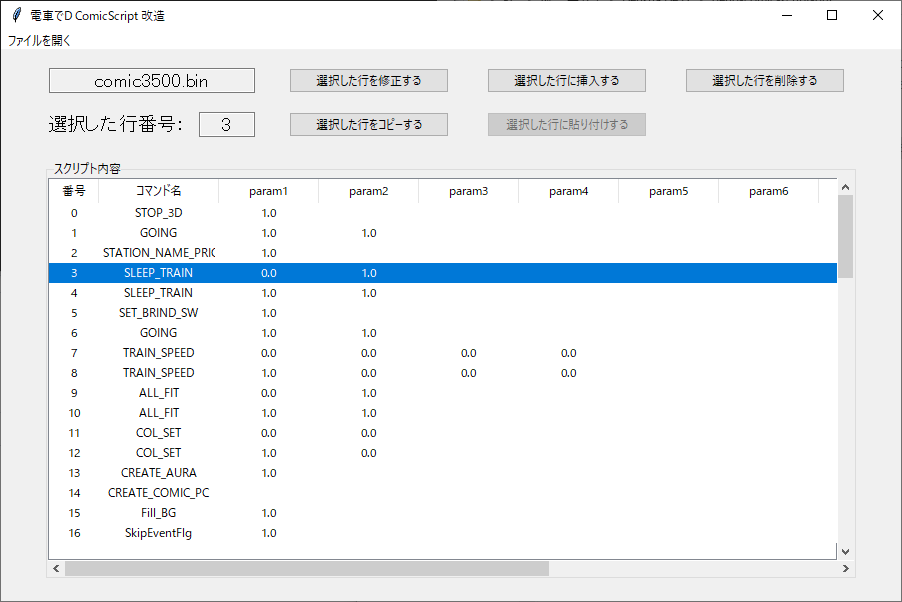
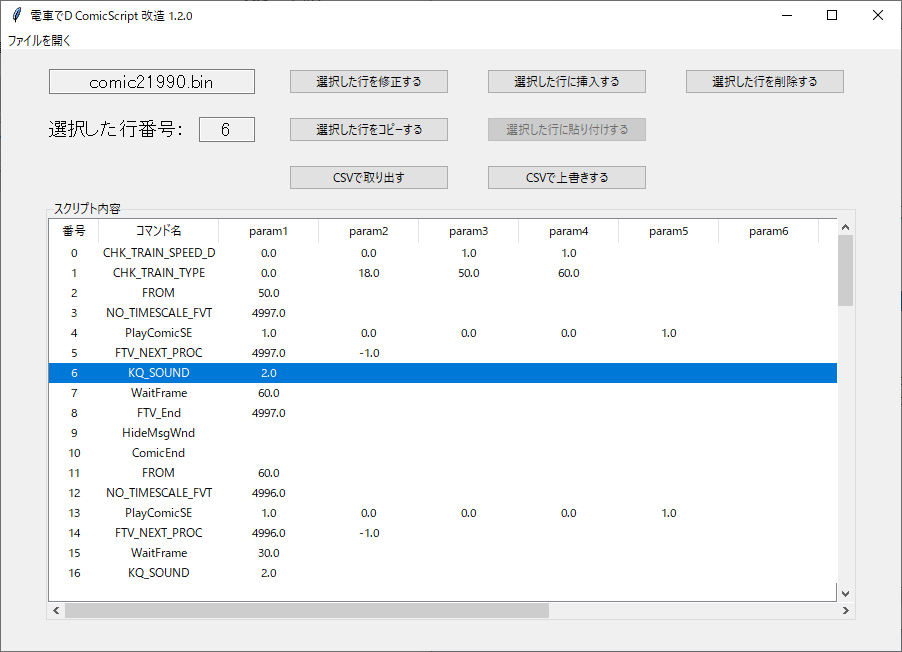
1.2.0 update

diff --git a/script.py b/script.py
@@ -616,6 +616,9 @@ class Scrollbarframe():
 
         self.tree.pack(expand=True, fill=BOTH)
         self.tree.bind("<<TreeviewSelect>>", self.treeSelect)
+
+        csvExtractBtn['state'] = 'normal'
+        csvLoadAndSaveBtn['state'] = 'normal'
     def treeSelect(self, event):
         selectId = self.tree.selection()[0]
         selectItem = self.tree.set(selectId)
@@ -1029,9 +1032,77 @@ def reloadFile():
             print(e)
             mb.showerror(title="エラー", message=errorMsg)
 
+
+def csvExtractBtn():
+    global comicDataList
+    file = v_fileName.get()
+    filename = os.path.splitext(os.path.basename(file))[0]
+    file_path = fd.asksaveasfilename(initialfile=filename, defaultextension='csv', filetypes=[('comicscript_csv', '*.csv')])
+    errorMsg = "CSVで取り出す機能が失敗しました。\n権限問題の可能性があります。"
+    try:
+        w = open(file_path, "w")
+        for comicData in comicDataList:
+            w.write("{0},".format(comicData[0]))
+            cmdParaCnt = comicData[1]
+            for i in range(cmdParaCnt):
+                w.write("{0}".format(comicData[2 + i]))
+                if i < cmdParaCnt-1:
+                    w.write(",")
+            w.write("\n")
+        w.close()
+        mb.showinfo(title="成功", message="CSVで取り出しました")
+    except Exception as e:
+        print(e)
+        mb.showerror(title="エラー", message=errorMsg)
+        
+
+def csvLoadAndSaveBtn():
+    global comicDataList
+    file_path = fd.askopenfilename(defaultextension='csv', filetypes=[("comicscript_csv", "*.csv")])
+    f = open(file_path)
+    csvLines = f.readlines()
+    f.close()
+
+    csvComicDataList = []
+    for i in range(len(csvLines)):
+        csvComicData = []
+        csvLine = csvLines[i].strip()
+        arr = csvLine.split(",")
+        cmdName = arr[0]
+        if cmdName not in cmd:
+            errorMsg = "{0}行目のコマンド[{1}]は\n存在しないコマンドです".format(i+1, cmdName)
+            mb.showerror(title="エラー", message=errorMsg)
+            break
+
+        comicDataParaList = []
+        for j in range(1, len(arr)):
+            if arr[j] == "":
+                break
+            try:
+                comicDataParaList.append(float(arr[j]))
+            except:
+                errorMsg = "{0}行目のコマンドに\n数字に変換できない要素[{1}]が入ってます".format(i+1, arr[j])
+                mb.showerror(title="エラー", message=errorMsg)
+                return
+
+        csvComicData.append(cmdName)
+        cmdParaCnt = len(comicDataParaList)
+        csvComicData.append(cmdParaCnt)
+        for j in range(len(comicDataParaList)):
+            csvComicData.append(comicDataParaList[j])
+
+        csvComicDataList.append(csvComicData)
+    warnMsg = "選択したCSVで上書きします。\nそれでもよろしいですか？"
+    result = mb.askokcancel(title="警告", message=warnMsg, icon="warning")
+
+    if result:
+        comicDataList = csvComicDataList
+        saveFile(comicDataList)
+        
+
 root = Tk()
-root.title("電車でD ComicScript 改造 1.1.2")
-root.geometry("900x550")
+root.title("電車でD ComicScript 改造 1.2.0")
+root.geometry("900x600")
 
 menubar = Menu(root)
 menubar.add_cascade(label='ファイルを開く', command= lambda: openFile())
@@ -1063,8 +1134,14 @@ copyLineBtn.place(relx=0.32, rely=0.11)
 pasteLineBtn = ttk.Button(root, text="選択した行に貼り付けする", width=25, state="disabled", command=pasteLine)
 pasteLineBtn.place(relx=0.54, rely=0.11)
 
+csvExtractBtn = ttk.Button(root, text="CSVで取り出す", width=25, state="disabled", command=csvExtractBtn)
+csvExtractBtn.place(relx=0.32, rely=0.19)
+
+csvLoadAndSaveBtn = ttk.Button(root, text="CSVで上書きする", width=25, state="disabled", command=csvLoadAndSaveBtn)
+csvLoadAndSaveBtn.place(relx=0.54, rely=0.19)
+
 scriptLf = ttk.LabelFrame(root, text="スクリプト内容")
-scriptLf.place(relx=0.05, rely=0.2, relwidth=0.9, relheight=0.76)
+scriptLf.place(relx=0.05, rely=0.25, relwidth=0.9, relheight=0.70)
 
 def deleteWidget():
     global scriptLf
